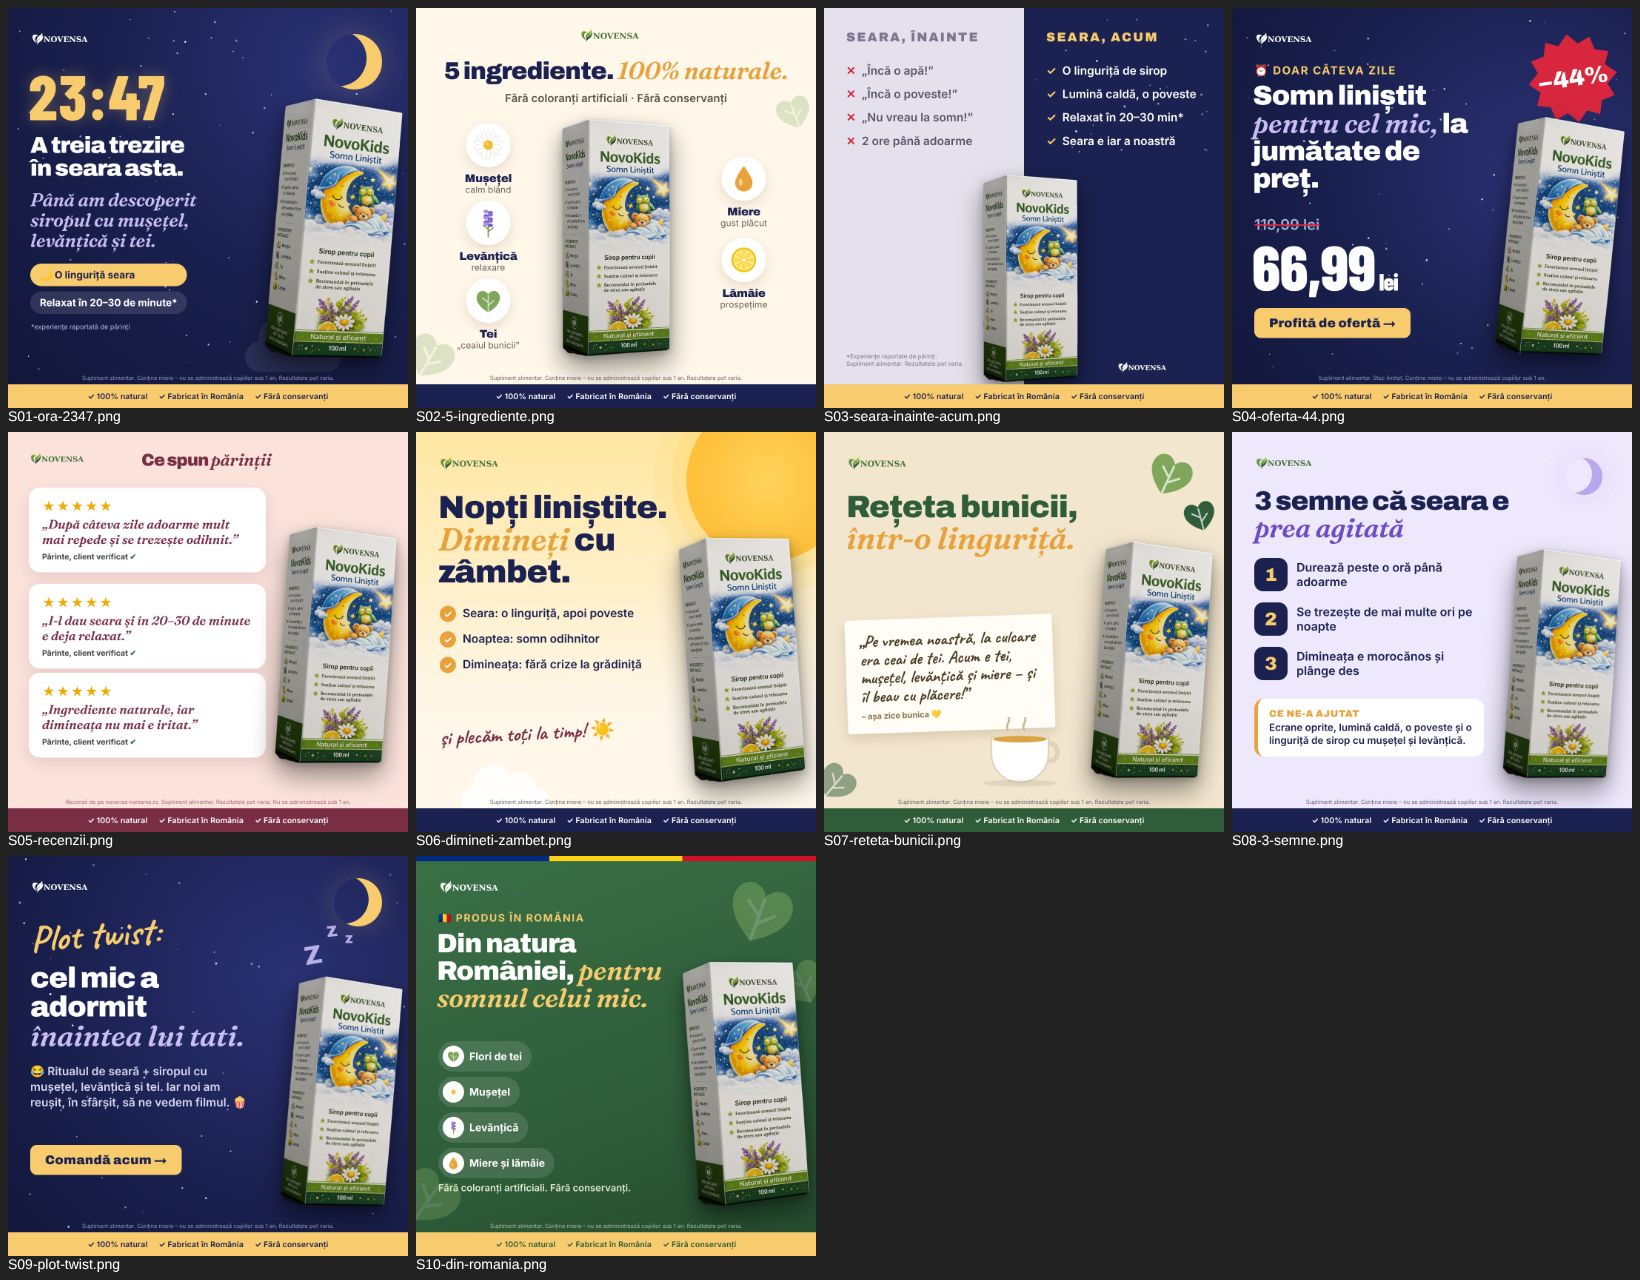
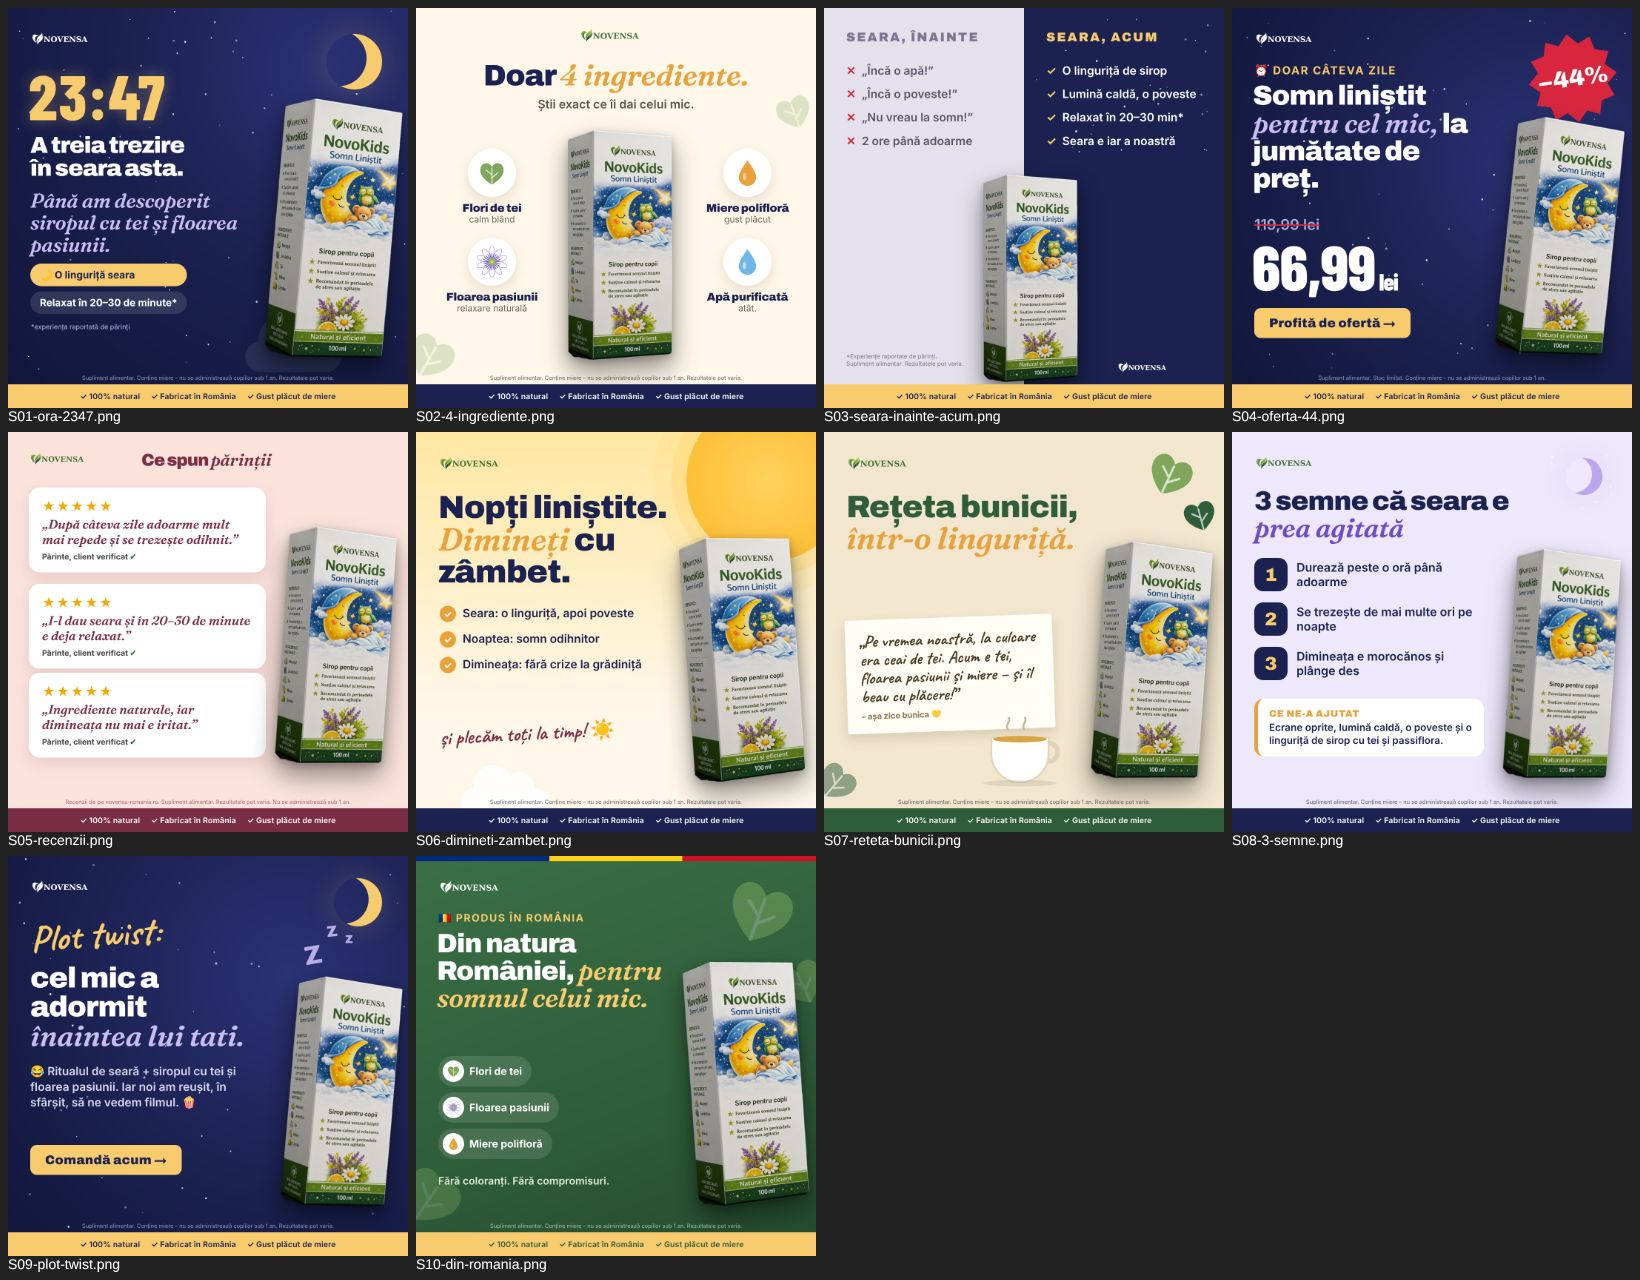
Kids sleep ads: restore site ingredients (linden, passionflower, honey, water), keep real box
Claude-Session: https://claude.ai/code/session_01Jq63QRdcYFJUVrB9UqU5c4

diff --git a/brand/somn-copii/ads.js b/brand/somn-copii/ads.js
@@ -1,7 +1,7 @@
 // Novokids Somn Liniștit (sirop pentru copii) – 10 statice Facebook/Instagram, 1080x1080.
 // Render: node render.js [id-filter]
 // Produsul: somn-copii/product.png (cutia NovoKids decupată din sirsom.png). Fără el se folosește o sticlă ilustrată.
-// Ingrediente conform cutiei: mușețel, levănțică, tei, miere, lămâie.
+// Ingrediente conform site-ului: tei, floarea pasiunii, miere polifloră, apă purificată.
 const fs = require('fs'), path = require('path');
 
 const FONTS = `
@@ -70,10 +70,10 @@ const bottle = (h, x, y, rot = 0) => fs.existsSync(REAL)
   : `<div class="btl" style="left:${x}px;top:${y}px;transform:rotate(${rot}deg) scale(${(h / 700).toFixed(3)})">
       <div class="cap"></div><div class="neck"></div>
       <div class="body"><div class="shine"></div><div class="label"><img src="${LOGO}"><div class="moonl"></div>
-      <b>Somn<br>Liniștit</b><small>sirop pentru copii</small><div class="band">MUȘEȚEL · LEVĂNȚICĂ · TEI</div></div></div></div>`;
+      <b>Somn<br>Liniștit</b><small>sirop pentru copii</small><div class="band">TEI · PASSIFLORA · MIERE</div></div></div></div>`;
 const logo = (x, y, h = 46, extra = '') => `<img class="logo" src="${LOGO}" style="left:${x}px;top:${y}px;height:${h}px;${extra}">`;
 const white = 'filter:brightness(0) invert(1)';
-const foot = (bg, fg) => `<div class="foot" style="background:${bg};color:${fg}"><span>100% natural</span><span>Fabricat în România</span><span>Fără conservanți</span></div>`;
+const foot = (bg, fg) => `<div class="foot" style="background:${bg};color:${fg}"><span>100% natural</span><span>Fabricat în România</span><span>Gust plăcut de miere</span></div>`;
 const disc = (c = C.ink, t = 'Supliment alimentar. Conține miere – nu se administrează copiilor sub 1 an. Rezultatele pot varia.') => `<div class="disc" style="color:${c}">${t}</div>`;
 const page = (css, body) => `<!doctype html><html lang="ro"><head><meta charset="utf-8"><style>${CSS}${css}</style></head><body>${body}</body></html>`;
 
@@ -94,9 +94,6 @@ const ico = {
   pasi: () => `<svg viewBox="0 0 100 100">${Array.from({ length: 10 }, (_, i) => `<ellipse cx="50" cy="22" rx="9" ry="22" fill="#fff" stroke="#B9A6EE" stroke-width="2" transform="rotate(${i * 36} 50 50)"/>`).join('')}${Array.from({ length: 24 }, (_, i) => `<line x1="50" y1="50" x2="50" y2="22" stroke="#6E4BC7" stroke-width="2.4" transform="rotate(${i * 15} 50 50)"/>`).join('')}<circle cx="50" cy="50" r="12" fill="#8DBE5A"/><circle cx="50" cy="50" r="5" fill="#F2C94C"/></svg>`,
   miere: () => `<svg viewBox="0 0 100 100"><path d="M50 10C50 10 22 46 22 64a28 28 0 0 0 56 0C78 46 50 10 50 10Z" fill="#E9A23B"/><ellipse cx="40" cy="62" rx="6" ry="12" fill="#fff" opacity=".45"/></svg>`,
   apa: () => `<svg viewBox="0 0 100 100"><path d="M50 10C50 10 22 46 22 64a28 28 0 0 0 56 0C78 46 50 10 50 10Z" fill="#6FB7E8"/><ellipse cx="40" cy="62" rx="6" ry="12" fill="#fff" opacity=".55"/></svg>`,
-  musetel: () => `<svg viewBox="0 0 100 100">${Array.from({ length: 14 }, (_, i) => `<ellipse cx="50" cy="24" rx="7" ry="20" fill="#fff" stroke="#E4E0D4" stroke-width="1.5" transform="rotate(${i * 25.7} 50 50)"/>`).join('')}<circle cx="50" cy="50" r="15" fill="#F5B92E"/><circle cx="46" cy="46" r="5" fill="#FFD866"/></svg>`,
-  lavanda: () => `<svg viewBox="0 0 100 100"><path d="M50 95V30" stroke="#6B9A4A" stroke-width="4" stroke-linecap="round"/><path d="M50 70 34 58M50 78 66 66" stroke="#6B9A4A" stroke-width="3.5" stroke-linecap="round"/>${[14, 24, 34, 44, 54].map((y, i) => `<ellipse cx="${i % 2 ? 57 : 43}" cy="${y}" rx="8" ry="6" fill="${i % 2 ? '#8E6FD8' : '#A68BE6'}"/><ellipse cx="${i % 2 ? 43 : 57}" cy="${y + 4}" rx="8" ry="6" fill="#7A5AC9"/>`).join('')}</svg>`,
-  lamaie: () => `<svg viewBox="0 0 100 100"><circle cx="50" cy="50" r="40" fill="#F5C518"/><circle cx="50" cy="50" r="33" fill="#FFF3B0"/>${Array.from({ length: 8 }, (_, i) => `<path d="M50 50 L${50 + 30 * Math.cos(i * Math.PI / 4 - .3)} ${50 + 30 * Math.sin(i * Math.PI / 4 - .3)} A30 30 0 0 1 ${50 + 30 * Math.cos(i * Math.PI / 4 + .3)} ${50 + 30 * Math.sin(i * Math.PI / 4 + .3)}Z" fill="#FFD84A"/>`).join('')}<circle cx="50" cy="50" r="4" fill="#fff"/></svg>`,
   cup: () => `<svg viewBox="0 0 200 170"><path d="M60 30c-6-14 8-18 2-30M100 30c-6-14 8-18 2-30" stroke="#C9B79A" stroke-width="5" fill="none" stroke-linecap="round"/><path d="M20 50h140v40a70 70 0 0 1-140 0Z" fill="#fff" stroke="#E2D3B8" stroke-width="4"/><path d="M160 64c30 0 30 44 0 44" stroke="#E2D3B8" stroke-width="12" fill="none"/><ellipse cx="90" cy="54" rx="66" ry="8" fill="#D9A441"/><ellipse cx="90" cy="162" rx="90" ry="8" fill="#000" opacity=".08"/></svg>`,
 };
 const leaf = (s, x, y, rot, c = C.linden, o = 1) => `<div class="abs" style="left:${x}px;top:${y}px;width:${s}px;height:${s}px;transform:rotate(${rot}deg);opacity:${o}">${ico.tei(c)}</div>`;
@@ -111,7 +108,7 @@ ads.push({ id: 'S01-ora-2347', html: page(`body{background:radial-gradient(circl
   ${logo(60, 60, 44, white)}
   <div class="abs clock" style="left:56px;top:150px">23:47</div>
   <div class="abs h" style="left:60px;top:340px;width:600px;font-size:62px">A treia trezire<br>în seara asta.</div>
-  <div class="abs it" style="left:60px;top:490px;width:600px;font-size:50px;line-height:1.1;color:${C.lav}">Până am descoperit siropul cu mușețel, levănțică și tei.</div>
+  <div class="abs it" style="left:60px;top:490px;width:600px;font-size:54px;line-height:1.1;color:${C.lav}">Până am descoperit siropul cu tei și floarea pasiunii.</div>
   <div class="abs" style="left:60px;top:690px;display:flex;flex-direction:column;gap:14px">
     <div class="pill" style="background:${C.moon};color:${C.night}">🌙 O linguriță seara</div>
     <div class="pill" style="background:rgba(255,255,255,.12);color:#fff">Relaxat în 20–30 de minute*</div></div>
@@ -119,18 +116,18 @@ ads.push({ id: 'S01-ora-2347', html: page(`body{background:radial-gradient(circl
   ${bottle(700, 720, 250, 5)}${disc('#cfd1ef')}${foot(C.moon, C.night)}`) });
 
 // 2. Doar 4 ingrediente – persona C (mama naturistă)
-const ing4 = [['musetel', 'Mușețel', 'calm blând', 60, 310, null], ['lavanda', 'Levănțică', 'relaxare', 60, 520, null], ['tei', 'Tei', '„ceaiul bunicii”', 60, 730, C.linden], ['miere', 'Miere', 'gust plăcut', 750, 400, null], ['lamaie', 'Lămâie', 'prospețime', 750, 620, null]];
-ads.push({ id: 'S02-5-ingrediente', html: page(`body{background:${C.cream}}
+const ing4 = [['tei', 'Flori de tei', 'calm blând', 70, 380, C.linden], ['pasi', 'Floarea pasiunii', 'relaxare naturală', 70, 620, null], ['miere', 'Miere polifloră', 'gust plăcut', 760, 380, null], ['apa', 'Apă purificată', 'atât.', 760, 620, null]];
+ads.push({ id: 'S02-4-ingrediente', html: page(`body{background:${C.cream}}
   .ing{position:absolute;width:270px;display:flex;flex-direction:column;align-items:center;text-align:center}
-  .ing .c{width:120px;height:120px;border-radius:50%;background:#fff;box-shadow:0 12px 30px rgba(120,90,40,.15);display:flex;align-items:center;justify-content:center}
+  .ing .c{width:130px;height:130px;border-radius:50%;background:#fff;box-shadow:0 12px 30px rgba(120,90,40,.15);display:flex;align-items:center;justify-content:center}
   .ing .c svg{width:84px;height:84px}
   .ing b{margin-top:14px;font:900 30px Archivo;color:${C.night};letter-spacing:-.5px}.ing small{font:400 24px Inter;color:#6b6457}`,
   `${leaf(160, -40, 860, 30, C.linden, .25)}${leaf(120, 960, 220, -20, C.linden, .25)}
   ${logo(440, 50, 46)}
-  <div class="abs h" style="left:0;right:0;top:135px;text-align:center;font-size:66px;color:${C.night}">5 ingrediente. <span class="it" style="color:${C.honey}">100% naturale.</span></div>
-  <div class="abs" style="left:0;right:0;top:225px;text-align:center;font:600 30px Inter;color:#5d5648">Fără coloranți artificiali · Fără conservanți</div>
+  <div class="abs h" style="left:0;right:0;top:140px;text-align:center;font-size:80px;color:${C.night}">Doar <span class="it" style="color:${C.honey}">4 ingrediente.</span></div>
+  <div class="abs" style="left:0;right:0;top:240px;text-align:center;font:600 32px Inter;color:#5d5648">Știi exact ce îi dai celui mic.</div>
   ${ing4.map(([k, n, s, x, y, c]) => `<div class="ing" style="left:${x}px;top:${y}px"><div class="c">${ico[k](c)}</div><b>${n}</b><small>${s}</small></div>`).join('')}
-  ${bottle(640, 395, 300)}${disc()}${foot(C.night, '#fff')}`) });
+  ${bottle(620, 410, 330)}${disc()}${foot(C.night, '#fff')}`) });
 
 // 3. Seara: înainte / acum – persona B
 ads.push({ id: 'S03-seara-inainte-acum', html: page(`body{background:#fff}
@@ -194,7 +191,7 @@ ads.push({ id: 'S07-reteta-bunicii', html: page(`body{background:${C.sand}}
   `${leaf(150, 860, 40, 25)}${leaf(110, 960, 170, -15, C.leaf)}${leaf(130, -30, 880, 40, C.leaf, .5)}
   ${logo(60, 60, 46)}
   <div class="abs h" style="left:60px;top:160px;width:640px;font-size:84px;color:${C.leaf}">Rețeta bunicii,<br><span class="it" style="color:${C.honey}">într-o linguriță.</span></div>
-  <div class="note"><div class="hand" style="font-size:46px;line-height:1.08;color:#4a3b22">„Pe vremea noastră, la culcare era ceai de tei. Acum e tei, mușețel, levănțică și miere – și îl beau cu plăcere!”</div>
+  <div class="note"><div class="hand" style="font-size:46px;line-height:1.08;color:#4a3b22">„Pe vremea noastră, la culcare era ceai de tei. Acum e tei, floarea pasiunii și miere – și îl beau cu plăcere!”</div>
   <div style="margin-top:14px;font:700 22px Inter;color:#8a7650">– așa zice bunica 💛</div></div>
   <div class="abs" style="left:430px;top:770px;width:220px">${ico.cup()}</div>
   ${bottle(640, 740, 300, 4)}${disc()}${foot(C.leaf, '#fff')}`) });
@@ -212,7 +209,7 @@ ads.push({ id: 'S08-3-semne', html: page(`body{background:${C.lav2}}
   <div class="r" style="top:460px"><div class="n">2</div><span>Se trezește de mai multe ori pe noapte</span></div>
   <div class="r" style="top:580px"><div class="n">3</div><span>Dimineața e morocănos și plânge des</span></div>
   <div class="tip"><div style="font:900 26px Archivo;color:${C.honey};letter-spacing:1px">CE NE-A AJUTAT</div>
-  <div style="font:600 27px/1.3 Inter;color:${C.night};margin-top:6px">Ecrane oprite, lumină caldă, o poveste și o linguriță de sirop cu mușețel și levănțică.</div></div>
+  <div style="font:600 27px/1.3 Inter;color:${C.night};margin-top:6px">Ecrane oprite, lumină caldă, o poveste și o linguriță de sirop cu tei și passiflora.</div></div>
   ${bottle(620, 750, 320, 4)}${disc()}${foot(C.night, '#fff')}`) });
 
 // 9. Plot twist – tati a adormit primul (umor)
@@ -222,7 +219,7 @@ ads.push({ id: 'S09-plot-twist', html: page(`body{background:radial-gradient(cir
   ${logo(60, 60, 44, white)}
   <div class="abs hand" style="left:60px;top:150px;font-size:100px;color:${C.moon};transform:rotate(-4deg)">Plot twist:</div>
   <div class="abs h" style="left:60px;top:290px;width:620px;font-size:78px">cel mic a adormit <span class="it" style="color:${C.lav}">înaintea lui tati.</span></div>
-  <div class="abs" style="left:60px;top:560px;width:600px;font:600 31px/1.35 Inter;color:#d6d8f2">😂 Ritualul de seară + siropul cu mușețel, levănțică și tei. Iar noi am reușit, în sfârșit, să ne vedem filmul. 🍿</div>
+  <div class="abs" style="left:60px;top:560px;width:600px;font:600 31px/1.35 Inter;color:#d6d8f2">😂 Ritualul de seară + siropul cu tei și floarea pasiunii. Iar noi am reușit, în sfârșit, să ne vedem filmul. 🍿</div>
   <div class="btn" style="left:60px;top:780px;background:${C.moon};color:${C.night}">Comandă acum →</div>
   <div class="z" style="left:800px;top:230px;font-size:70px;transform:rotate(-10deg)">Z</div>
   <div class="z" style="left:860px;top:170px;font-size:54px;transform:rotate(-6deg)">z</div>
@@ -238,12 +235,11 @@ ads.push({ id: 'S10-din-romania', html: page(`body{background:linear-gradient(16
   ${logo(60, 60, 46, white)}
   <div class="abs" style="left:60px;top:150px;font:800 28px Inter;letter-spacing:3px;color:${C.moon}">🇷🇴 PRODUS ÎN ROMÂNIA</div>
   <div class="abs h" style="left:56px;top:200px;width:660px;font-size:72px">Din natura României, <span class="it" style="color:${C.moon}">pentru somnul celui mic.</span></div>
-  <div class="abs" style="left:60px;top:500px;display:flex;flex-direction:column;gap:14px;align-items:flex-start">
+  <div class="abs" style="left:60px;top:540px;display:flex;flex-direction:column;gap:16px;align-items:flex-start">
     <div class="chip"><span>${ico.tei(C.linden)}</span>Flori de tei</div>
-    <div class="chip"><span>${ico.musetel()}</span>Mușețel</div>
-    <div class="chip"><span>${ico.lavanda()}</span>Levănțică</div>
-    <div class="chip"><span>${ico.miere()}</span>Miere și lămâie</div></div>
-  <div class="abs" style="left:60px;top:880px;font:600 26px Inter;color:#dfeccf">Fără coloranți artificiali. Fără conservanți.</div>
+    <div class="chip"><span>${ico.pasi()}</span>Floarea pasiunii</div>
+    <div class="chip"><span>${ico.miere()}</span>Miere polifloră</div></div>
+  <div class="abs" style="left:60px;top:860px;font:600 28px Inter;color:#dfeccf">Fără coloranți. Fără compromisuri.</div>
   ${bottle(660, 740, 280, -4)}${disc('#dfeccf')}${foot(C.moon, C.leaf)}`) });
 
 module.exports = ads;
